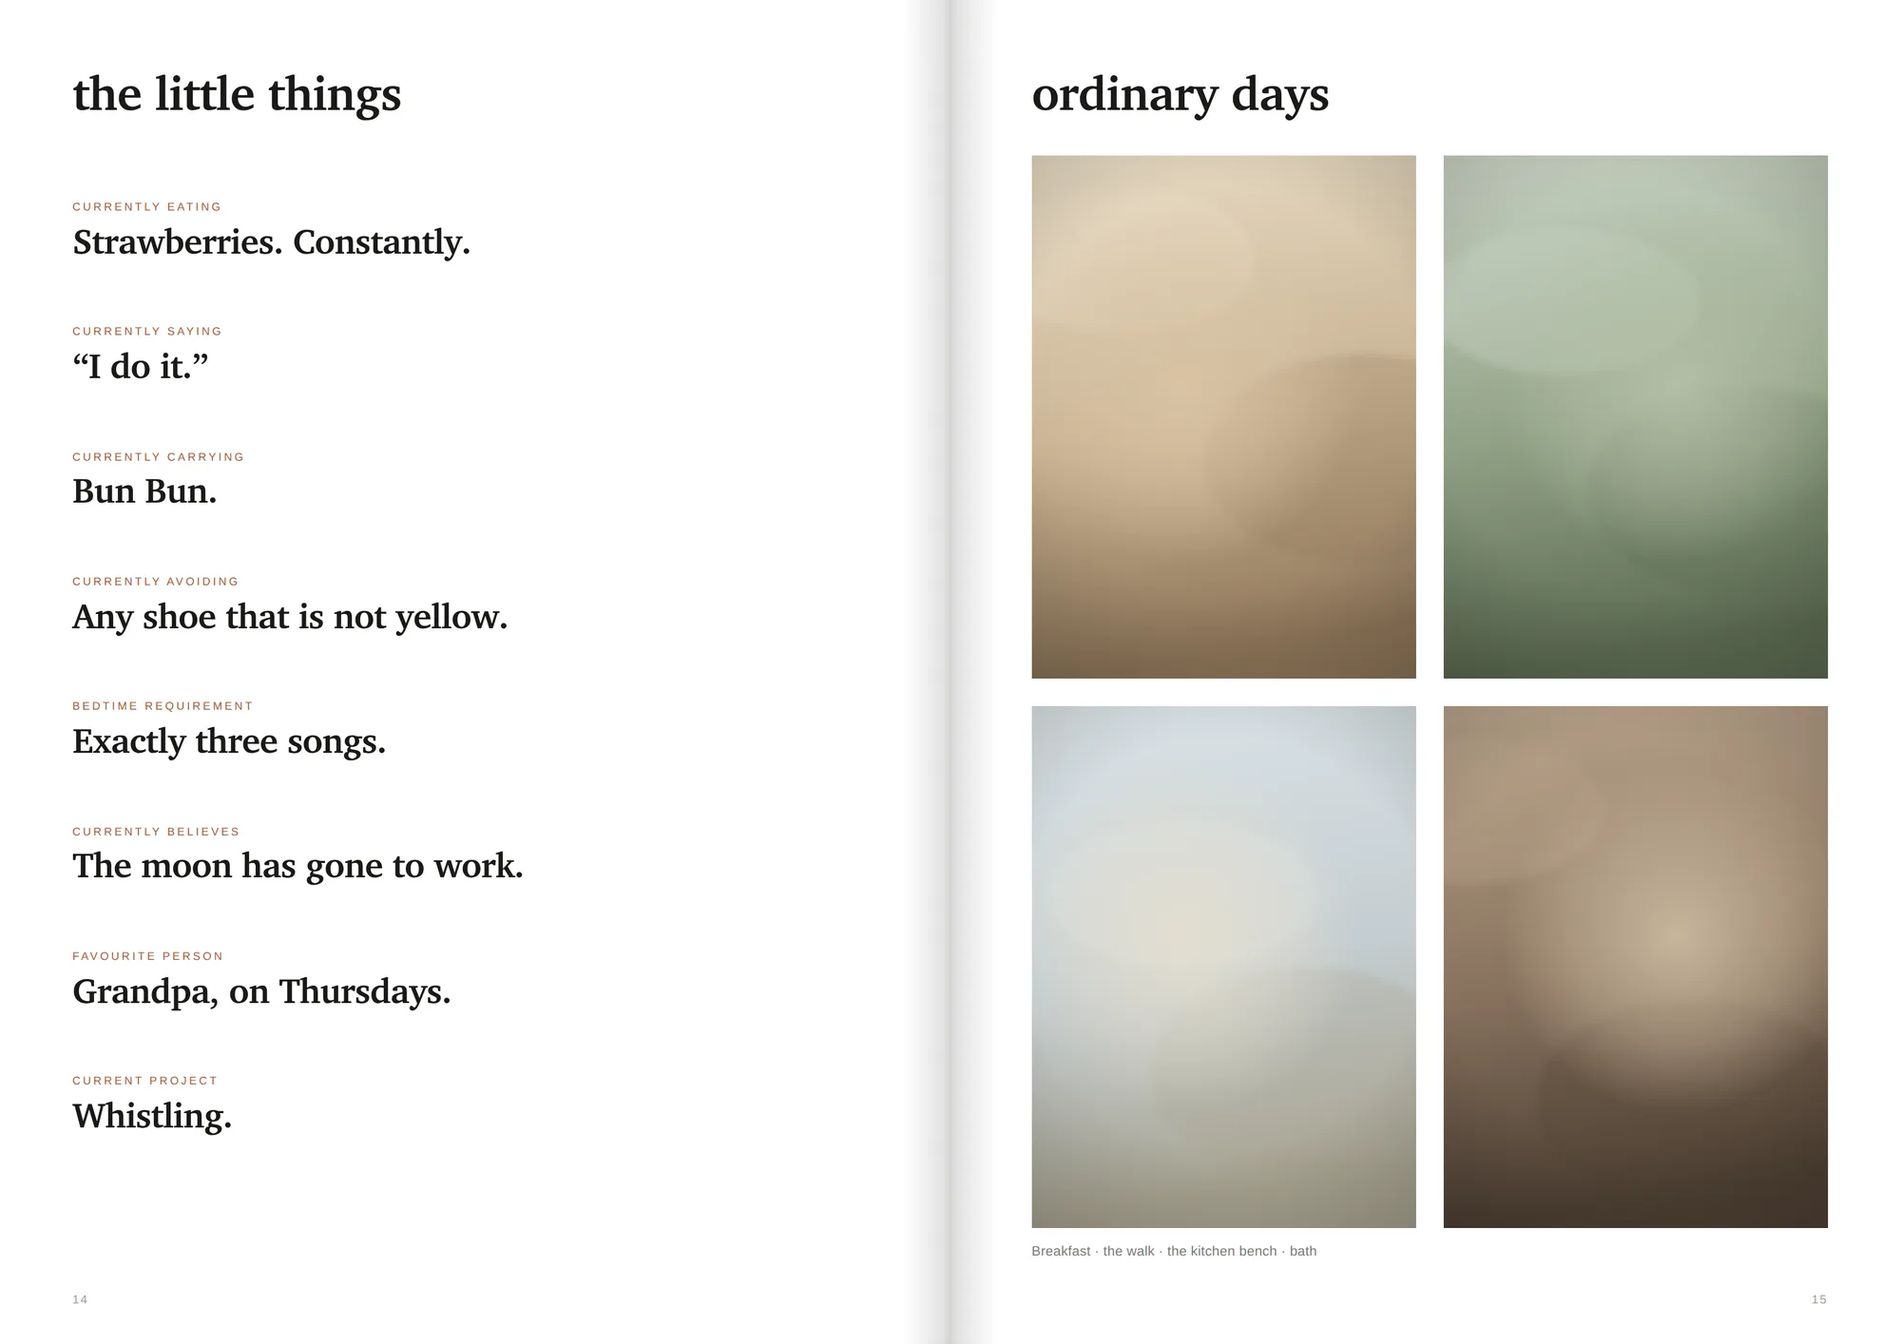
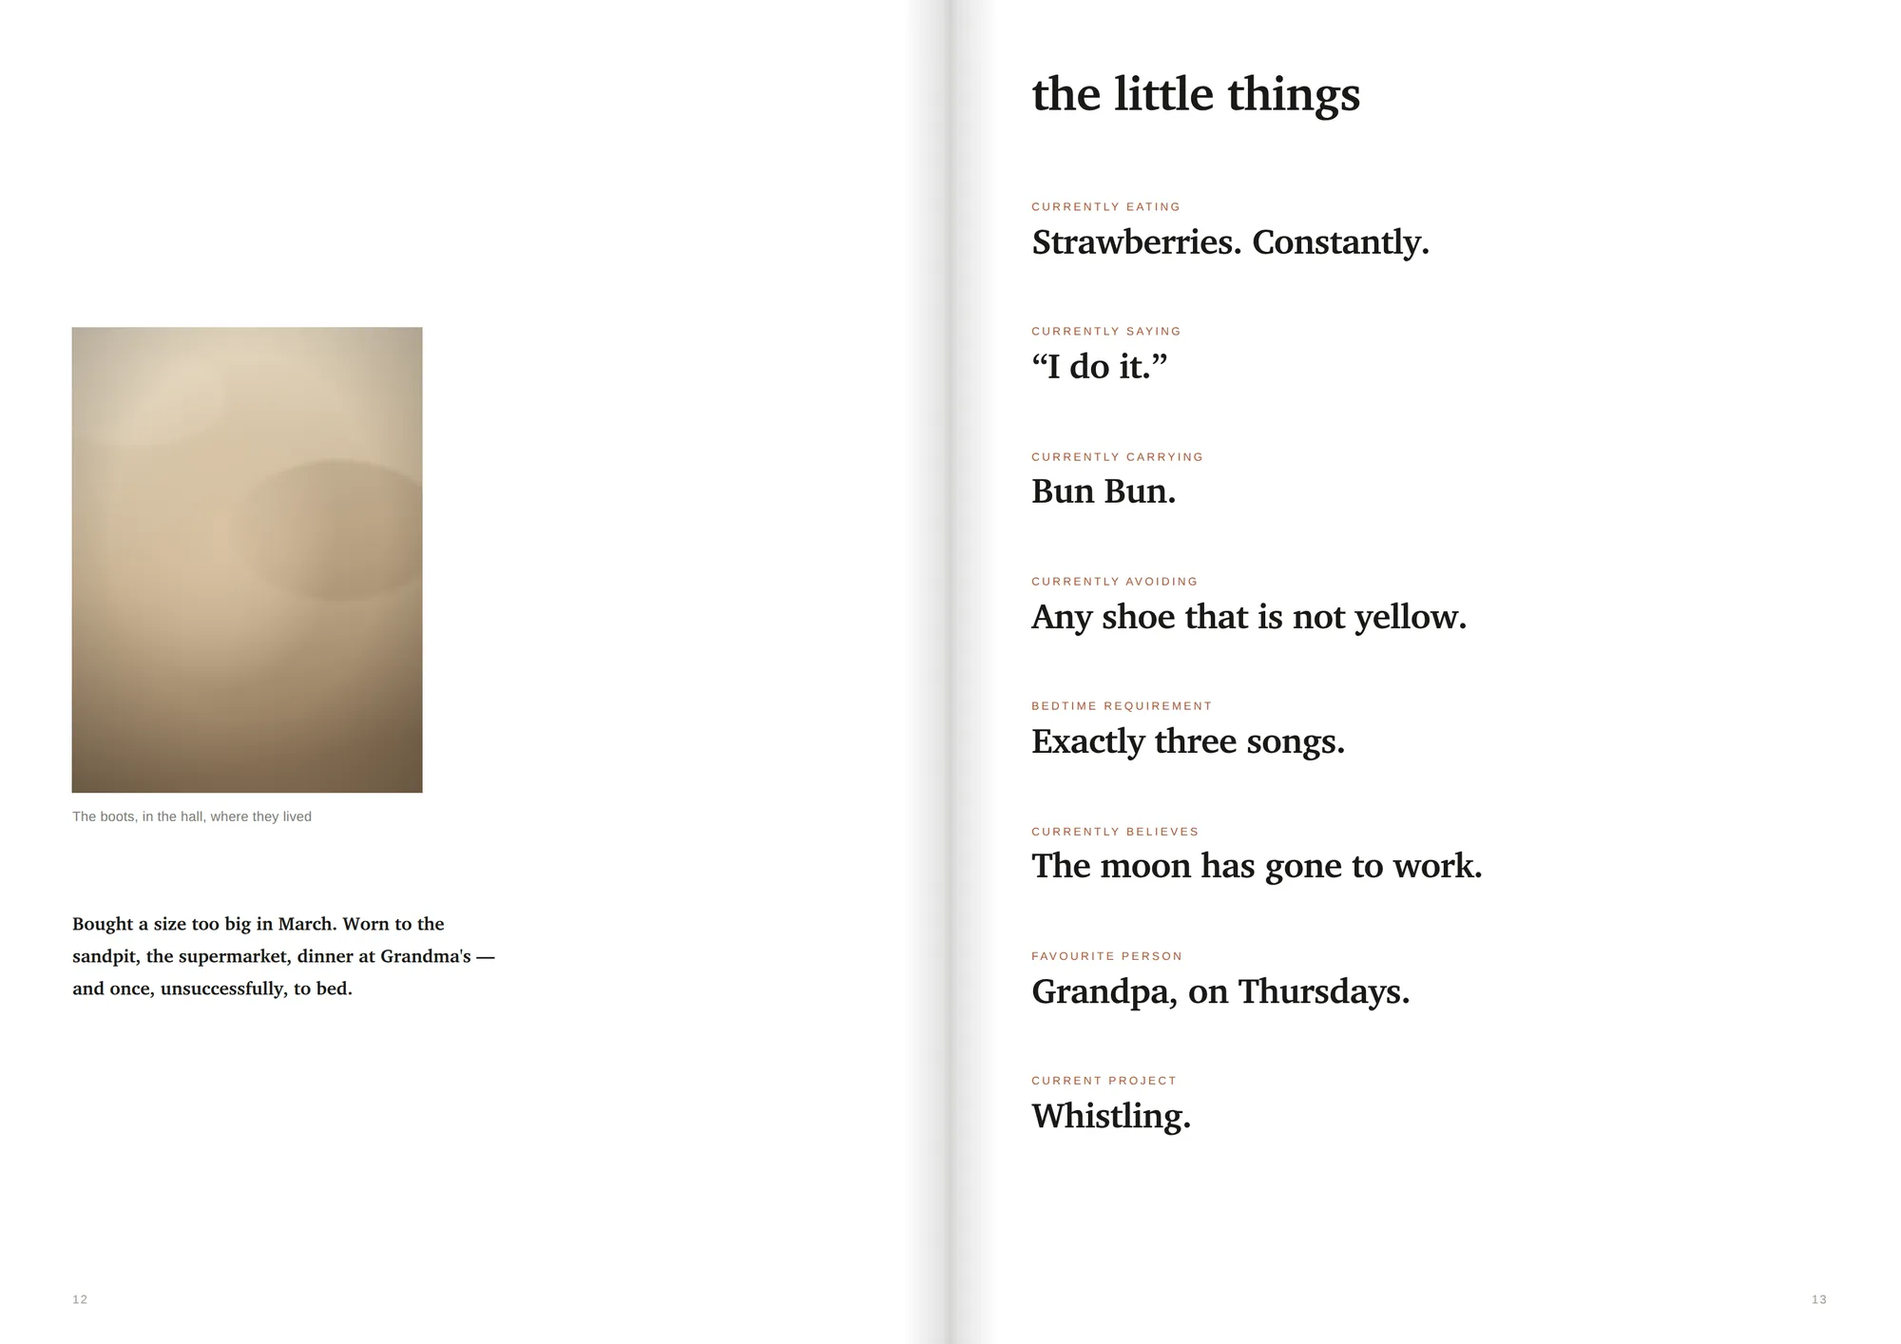
Re-cut the sample volume so it can be photographed
The site cannot show a child's face. Qotidia's promise is that a child's
photographs stay private and are never the product, so a marketing page
carrying one contradicts itself in the one place everybody looks — and stock
photography is worse, because it is a stranger's child impersonating a
customer's.

Every page of the volume now says whether it carries a photograph that would
be of the child, and the order is cut so four of the pages that do not fall
as facing pairs — an even page and the odd one after it, which is what a
spread actually is. Those four are what the website shows and what a printed
sample should be opened to when it is photographed.

  4|5    a sentence alone, facing a chapter opening
  6|7    the rabbit as an object, facing what she said about the moon
  12|13  the boots themselves, facing the list of little things
  16|17  the bedtime rule, facing the cup she demanded

Two object portraits were added to make that work — the boots in the hall,
and the blue cup — and both are better bookmaking than what they sit beside.
The objects are the part of a childhood nobody thinks to keep, which is the
argument the whole product is making, and they are also the pages that
separate this from a photo book. The constraint turned out to point at the
same pages the positioning already wanted.

The flag marks what may be photographed for the website. It is not an
instruction to make a childhood book with no child in it, and a test asserts
[…]

diff --git a/qotidia/src/lib/book/sample-volume.ts b/qotidia/src/lib/book/sample-volume.ts
@@ -98,69 +98,156 @@ export function photo(seed: number, w = 2400, h = 3200): string {
 type B = RenderPage["blocks"][number];
 const T = (type: B["type"], content: string): B => ({ type, content });
 
-// A volume built to the brief's architecture (§10), paced to §11.
-export const PAGES: Omit<RenderPage, "pageNumber">[] = [
-  { archetype: "chapter_opener", hideFolio: true, blocks: [
+export interface Leaf {
+  page: Omit<RenderPage, "pageNumber">;
+  /**
+   * True when this page carries a photograph that would, in a real copy, be
+   * a photograph of the child.
+   *
+   * This is the whole point of the flag. Qotidia's promise is that a child's
+   * photographs stay private and are never the product, so a marketing site
+   * carrying a child's face contradicts itself in the one place everybody
+   * looks — and stock photography is worse, because it is a stranger's child
+   * impersonating a customer's.
+   *
+   * The book still has photographs of the child, obviously. It is a book
+   * about a child. What this marks is which pages can be *photographed for
+   * the website*, and the volume is arranged so that enough of those pages
+   * face each other to make real spreads.
+   */
+  showsAChild: boolean;
+  /** What the page is, for whoever is choosing what to shoot. */
+  note: string;
+}
+
+const child = (note: string, page: Leaf["page"]): Leaf => ({ page, showsAChild: true, note });
+const safe = (note: string, page: Leaf["page"]): Leaf => ({ page, showsAChild: false, note });
+
+/**
+ * The volume, in order.
+ *
+ * Re-cut for photography. The pages that carry no child — the quotes, the
+ * chapter openers, the object portraits and the list of little things — are
+ * arranged so that four of them fall as facing pairs: an even page and the
+ * odd page after it, which is what a spread actually is. Those four are what
+ * the website shows, and what a printed sample should be opened to.
+ *
+ * It is also better bookmaking. An object portrait of the boots opposite the
+ * list of little things is a stronger spread than another photograph of a
+ * toddler, and the objects are the part of a childhood nobody thinks to
+ * keep — which is the argument the whole product is making.
+ */
+export const VOLUME: Leaf[] = [
+  safe("Chapter one opens.", { archetype: "chapter_opener", hideFolio: true, blocks: [
     T("label", "One"), T("heading", "This was you at two"),
-    T("text", "You lived in the grey house with the broken gate. You were two in April. By June you had opinions about boots.")] },
-  { archetype: "hero_photograph", hideFolio: true, blocks: [T("photo", photo(1))] },
-  { archetype: "portrait_plus_story", blocks: [
+    T("text", "You lived in the grey house with the broken gate. You were two in April. By June you had opinions about boots.")] }),
+  child("Full-bleed portrait.", { archetype: "hero_photograph", hideFolio: true, blocks: [T("photo", photo(1))] }),
+  child("At the front window, waiting for the truck.", { archetype: "portrait_plus_story", blocks: [
     T("photo", photo(2, 2400, 1800)), T("caption", "The front window, most mornings"),
-    T("text", "You could hear the truck three streets away. You would stop whatever you were doing and stand at the window, completely still, until it had gone past.")] },
-  { archetype: "quote_page", blocks: [
-    T("quote", "I do it my byself."), T("annotation", "Florence, 2 years 4 months")] },
-  { archetype: "chapter_opener", hideFolio: true, blocks: [
+    T("text", "You could hear the truck three streets away. You would stop whatever you were doing and stand at the window, completely still, until it had gone past.")] }),
+
+  // ── spread 4|5 ─ a sentence alone, facing a chapter opening.
+  safe("A quote given a whole page.", { archetype: "quote_page", blocks: [
+    T("quote", "I do it my byself."), T("annotation", "Florence, 2 years 4 months")] }),
+  safe("Chapter two opens, on terracotta.", { archetype: "chapter_opener", hideFolio: true, blocks: [
     T("label", "Two"), T("heading", "The year of Bun Bun"),
-    T("text", "A blue rabbit, one ear longer than the other, in roughly a third of every photograph taken this year.")] },
-  { archetype: "object_portrait", blocks: [
+    T("text", "A blue rabbit, one ear longer than the other, in roughly a third of every photograph taken this year.")] }),
+
+  // ── spread 6|7 ─ the rabbit, facing what she said about the moon.
+  safe("The rabbit, photographed as an object.", { archetype: "object_portrait", blocks: [
     T("photo", photo(3, 900, 1200)), T("caption", "Bun Bun, after the wash"),
-    T("text", "He went through the machine in August. It was an emotional afternoon. He came back slightly paler and has been favoured ever since.")] },
-  { archetype: "three_photo_sequence", blocks: [
+    T("text", "He went through the machine in August. It was an emotional afternoon. He came back slightly paler and has been favoured ever since.")] }),
+  safe("A quote given a whole page.", { archetype: "quote_page", blocks: [
+    T("quote", "Moon gone to work."), T("annotation", "Florence, 2 years 7 months")] }),
+
+  child("Three frames from a week at the beach.", { archetype: "three_photo_sequence", blocks: [
     T("photo", photo(4, 1600, 1600)), T("photo", photo(5, 1600, 1600)), T("photo", photo(6, 1600, 1600)),
-    T("caption", "Beach week — the bucket was for shells; the shells were for Bun Bun")] },
-  { archetype: "quote_page", blocks: [
-    T("quote", "Moon gone to work."), T("annotation", "Florence, 2 years 7 months")] },
-  { archetype: "people_page", blocks: [
+    T("caption", "Beach week — the bucket was for shells; the shells were for Bun Bun")] }),
+  child("Grandpa, and Thursdays.", { archetype: "people_page", blocks: [
     T("label", "Your people"), T("heading", "Grandpa"),
     T("photo", photo(7, 2000, 1500)), T("caption", "Thursday, most weeks"),
-    T("text", "Thursdays were his. You watered every pot on the back step, in order, and then you had a biscuit. He taught you to whistle in September. It is more of a hiss, but you are committed.")] },
-  { archetype: "two_photo_sequence", blocks: [
+    T("text", "Thursdays were his. You watered every pot on the back step, in order, and then you had a biscuit. He taught you to whistle in September. It is more of a hiss, but you are committed.")] }),
+  child("The same spot, eight months apart.", { archetype: "two_photo_sequence", blocks: [
     T("photo", photo(8, 1800, 2400)), T("photo", photo(9, 1800, 2400)),
-    T("caption", "March, and again in November")] },
-  { archetype: "chapter_opener", hideFolio: true, blocks: [
-    T("label", "Three"), T("heading", "The yellow boots")] },
-  { archetype: "hero_photograph", hideFolio: true, blocks: [T("photo", photo(10))] },
-  { archetype: "portrait_plus_story", blocks: [
-    T("photo", photo(11, 2400, 1800)), T("caption", "Not raining. Not once."),
-    T("text", "For four months, only the yellow boots would do. Sandpit, supermarket, dinner at Grandma's — and once, unsuccessfully, bed.")] },
-  { archetype: "little_things", blocks: [
+    T("caption", "March, and again in November")] }),
+  safe("Chapter three opens.", { archetype: "chapter_opener", hideFolio: true, blocks: [
+    T("label", "Three"), T("heading", "The yellow boots")] }),
+
+  // ── spread 12|13 ─ the boots themselves, facing the little things.
+  //    The best spread in the book and the one with no child in it.
+  safe("The boots, photographed as an object.", { archetype: "object_portrait", blocks: [
+    T("photo", photo(0, 900, 1200)), T("caption", "The boots, in the hall, where they lived"),
+    T("text", "Bought a size too big in March. Worn to the sandpit, the supermarket, dinner at Grandma's — and once, unsuccessfully, to bed.")] }),
+  safe("The list nobody thinks to write down.", { archetype: "little_things", blocks: [
     T("heading", "The little things"),
     T("text", "Currently eating: Strawberries. Constantly."),
-    T("text", "Currently saying: “I do it.”"),
+    T("text", "Currently saying: \u201cI do it.\u201d"),
     T("text", "Currently carrying: Bun Bun."),
     T("text", "Currently avoiding: Any shoe that is not yellow."),
     T("text", "Bedtime requirement: Exactly three songs."),
     T("text", "Currently believes: The moon has gone to work."),
     T("text", "Favourite person: Grandpa, on Thursdays."),
-    T("text", "Current project: Whistling.")] },
-  { archetype: "ordinary_days", blocks: [
+    T("text", "Current project: Whistling.")] }),
+
+  child("Full-bleed portrait, boots on.", { archetype: "hero_photograph", hideFolio: true, blocks: [T("photo", photo(10))] }),
+  child("Wearing them somewhere they were not needed.", { archetype: "portrait_plus_story", blocks: [
+    T("photo", photo(11, 2400, 1800)), T("caption", "Not raining. Not once."),
+    T("text", "For four months, only the yellow boots would do. Sandpit, supermarket, dinner at Grandma\u2019s \u2014 and once, unsuccessfully, bed.")] }),
+
+  // ── spread 16|17 ─ the bedtime rule, facing the cup she demanded.
+  safe("A quote given a whole page.", { archetype: "quote_page", blocks: [
+    T("quote", "Three songs. Then one more three songs."), T("annotation", "Florence, 2 years 11 months")] }),
+  safe("The breakfast cup, photographed as an object.", { archetype: "object_portrait", blocks: [
+    T("photo", photo(5, 900, 1200)), T("caption", "The blue cup. Only the blue cup."),
+    T("text", "There were four cups in the house. Three of them were wrong, and nobody was ever able to establish why.")] }),
+
+  child("Four ordinary days.", { archetype: "ordinary_days", blocks: [
     T("heading", "Ordinary days"),
     T("photo", photo(12, 1400, 1400)), T("photo", photo(13, 1400, 1400)),
     T("photo", photo(14, 1400, 1400)), T("photo", photo(15, 1400, 1400)),
-    T("caption", "Breakfast · the walk · the kitchen bench · bath")] },
-  { archetype: "then_now", blocks: [
+    T("caption", "Breakfast \u00b7 the walk \u00b7 the kitchen bench \u00b7 bath")] }),
+  child("January against December.", { archetype: "then_now", blocks: [
     T("photo", photo(16, 1800, 2400)), T("photo", photo(17, 1800, 2400)),
-    T("annotation", "January"), T("annotation", "December")] },
-  { archetype: "quote_page", blocks: [
-    T("quote", "Three songs. Then one more three songs."), T("annotation", "Florence, 2 years 11 months")] },
-  { archetype: "closing_page", blocks: [
+    T("annotation", "January"), T("annotation", "December")] }),
+  child("The last page.", { archetype: "closing_page", blocks: [
     T("photo", photo(18, 2000, 1500)), T("heading", "At the end of two"),
     T("text", "You are two and eleven months. You can nearly whistle. You still will not wear the blue boots, and nobody has tried to make you in some time."),
-    T("annotation", "This volume was closed in April.")] },
+    T("annotation", "This volume was closed in April.")] }),
 ];
+
+export const PAGES: Omit<RenderPage, "pageNumber">[] = VOLUME.map((leaf) => leaf.page);
 
 /** The volume, page-numbered, ready for renderBookHtml(). */
 export const SAMPLE_PAGES: RenderPage[] = PAGES.map((p, i) => ({ ...p, pageNumber: i + 1 }));
+
+export interface Spreadable {
+  /** Interior page numbers. Always an even page facing the odd one after it. */
+  left: number;
+  right: number;
+  /** What the pair is, joined. */
+  what: string;
+}
+
+/**
+ * Every facing pair with no child on either page.
+ *
+ * A spread is a verso and the recto after it — an even page and the odd one
+ * following. Pairing 3 with 4 is two pages that never face each other, and
+ * would show a relationship the printed book does not have.
+ *
+ * This is the list the website chooses from, and the list to open a printed
+ * sample to when photographing it.
+ */
+export function photographableSpreads(): Spreadable[] {
+  const out: Spreadable[] = [];
+  for (let left = 2; left < VOLUME.length; left += 2) {
+    const a = VOLUME[left - 1];
+    const b = VOLUME[left];
+    if (!a || !b || a.showsAChild || b.showsAChild) continue;
+    out.push({ left, right: left + 1, what: `${a.note} ${b.note}` });
+  }
+  return out;
+}
 
 export const SAMPLE_BOOK = {
   cover: {

diff --git a/qotidia/src/lib/marketing/spreads.ts b/qotidia/src/lib/marketing/spreads.ts
@@ -7,9 +7,18 @@
 // see.
 //
 // Three, chosen to show that the book has more than one idea in it. A reader
-// deciding whether to spend A$199 is trying to work out whether this is a
-// designed object or a photo dump with a hard cover, and three near-identical
-// grids of photographs answers that question the wrong way.
+// deciding whether to buy is working out whether this is a designed object or
+// a photo dump with a hard cover, and three near-identical grids of
+// photographs answers that question the wrong way.
+//
+// Every one of them is a spread with no child on either page, and that is not
+// a compromise — it is the position. This product's promise is that a child's
+// photographs stay private and are never the product, so a website carrying a
+// child's face contradicts itself where everybody looks. The pages that are
+// safe to show also happen to be the pages that separate this from a photo
+// book: the things she said, the list of small facts, and the objects. See
+// photographableSpreads() in lib/book/sample-volume.ts, which is what these
+// are checked against.
 
 export interface Spread {
   /** File name under public/sample/spreads, and the React key. */
@@ -33,11 +42,19 @@ export interface Spread {
 export const SPREADS: Spread[] = [
   {
     id: "the-little-things",
-    left: 14,
-    right: 15,
+    left: 12,
+    right: 13,
     caption:
-      "The list nobody thinks to write down, opposite an ordinary week.",
-    alt: "An open book: on the left, a list headed The little things — currently eating, currently saying, bedtime requirement. On the right, four photographs of ordinary days.",
+      "The boots themselves, opposite the list nobody thinks to write down.",
+    alt: "An open book: on the left a photograph of a pair of small boots in a hallway, on the right a list headed The little things — currently eating, currently saying, bedtime requirement.",
+  },
+  {
+    id: "an-object-kept",
+    left: 6,
+    right: 7,
+    caption:
+      "A rabbit, given the same care as a person. Facing something she said about the moon.",
+    alt: "An open book: on the left a photograph of a well-worn toy rabbit with a short piece of writing about it, on the right a single sentence a two-year-old said, set large.",
   },
   {
     id: "a-quote-alone",
@@ -45,14 +62,7 @@ export const SPREADS: Spread[] = [
     right: 5,
     caption:
       "Something she said, given a page of its own. Nothing is corrected — “byself” is how she says it.",
-    alt: "An open book: on the left, a single sentence a two-year-old said, set large with her age beneath it. On the right, a chapter opening titled The year of Bun Bun.",
-  },
-  {
-    id: "photo-and-story",
-    left: 2,
-    right: 3,
-    caption: "A photograph given the whole page, opposite the story it belongs to.",
-    alt: "An open book: a full-page photograph on the left, and on the right a smaller photograph above a short piece of writing about watching for the rubbish truck.",
+    alt: "An open book: on the left a single sentence a two-year-old said, set large with her age beneath it. On the right, a chapter opening titled The year of Bun Bun.",
   },
 ];
 

diff --git a/qotidia/tests/spreads.test.ts b/qotidia/tests/spreads.test.ts
@@ -11,7 +11,7 @@ import { fileURLToPath } from "node:url";
 import { readFileSync } from "node:fs";
 import { describe, expect, it } from "vitest";
 import { SPREADS, SPREADS_DISCLOSURE, spreadSrc } from "@/lib/marketing/spreads";
-import { SAMPLE_PAGES } from "@/lib/book/sample-volume";
+import { SAMPLE_PAGES, VOLUME, photographableSpreads } from "@/lib/book/sample-volume";
 
 const publicPath = (src: string) =>
   fileURLToPath(new URL(`../public${src}`, import.meta.url));
@@ -40,6 +40,30 @@ describe("the spreads the page shows", () => {
       expect(s.right).toBe(s.left + 1);
       expect(s.right, `spread ${s.id} runs past the end of the book`).toBeLessThanOrEqual(last);
     }
+  });
+
+  it("shows no child on any page of any spread", () => {
+    // The position, enforced. A page selling privacy cannot carry a child's
+    // face, and the moment somebody re-cuts the volume the safe pairs move —
+    // so the website is checked against the book rather than against a
+    // remembered page number.
+    const safe = photographableSpreads();
+    for (const s of SPREADS) {
+      expect(
+        safe.some((p) => p.left === s.left && p.right === s.right),
+        `spread ${s.id} (${s.left}|${s.right}) is not one of the pairs without a child: ` +
+          safe.map((p) => `${p.left}|${p.right}`).join(", ")
+      ).toBe(true);
+      expect(VOLUME[s.left - 1].showsAChild).toBe(false);
+      expect(VOLUME[s.right - 1].showsAChild).toBe(false);
+    }
+  });
+
+  it("leaves the book itself with photographs in it", () => {
+    // The flag marks what may be *photographed for the site*, not an
+    // instruction to make a childhood book with no child in it. If this ever
+    // reaches zero, somebody has misread what the constraint was for.
+    expect(VOLUME.filter((l) => l.showsAChild).length).toBeGreaterThan(6);
   });
 
   it("puts the verso on the left, the way a book opens", () => {
